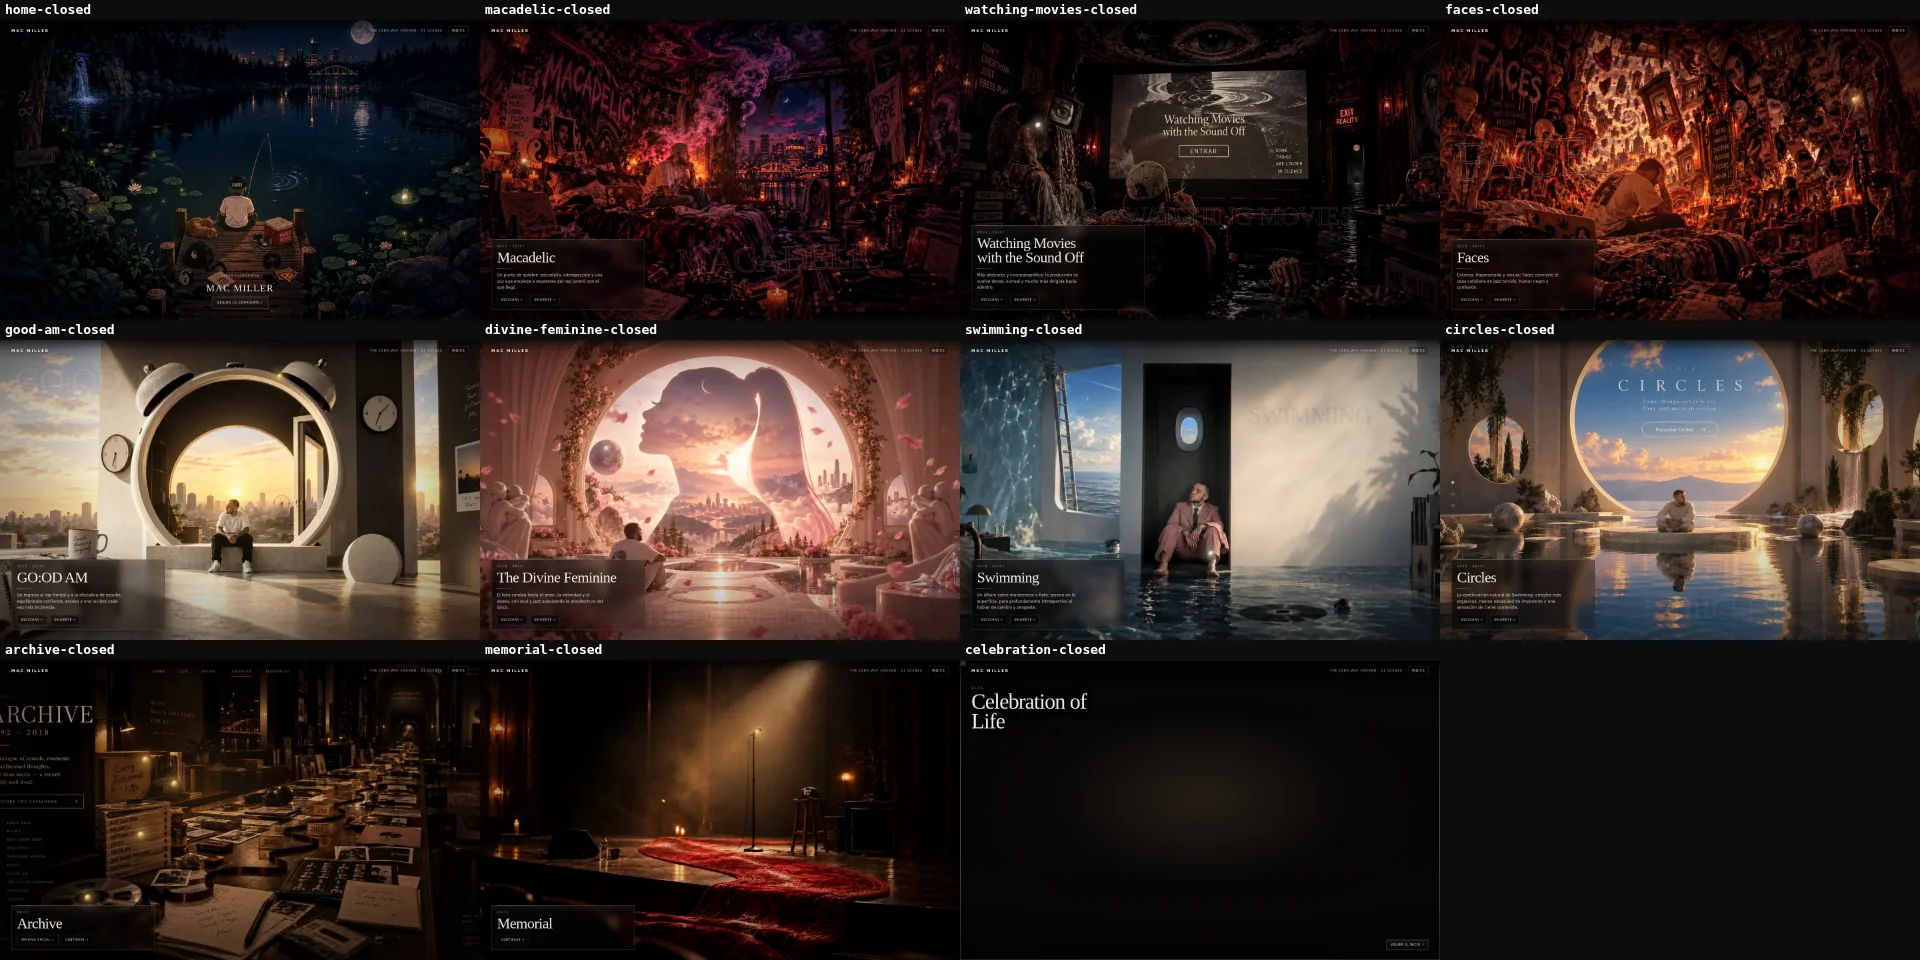
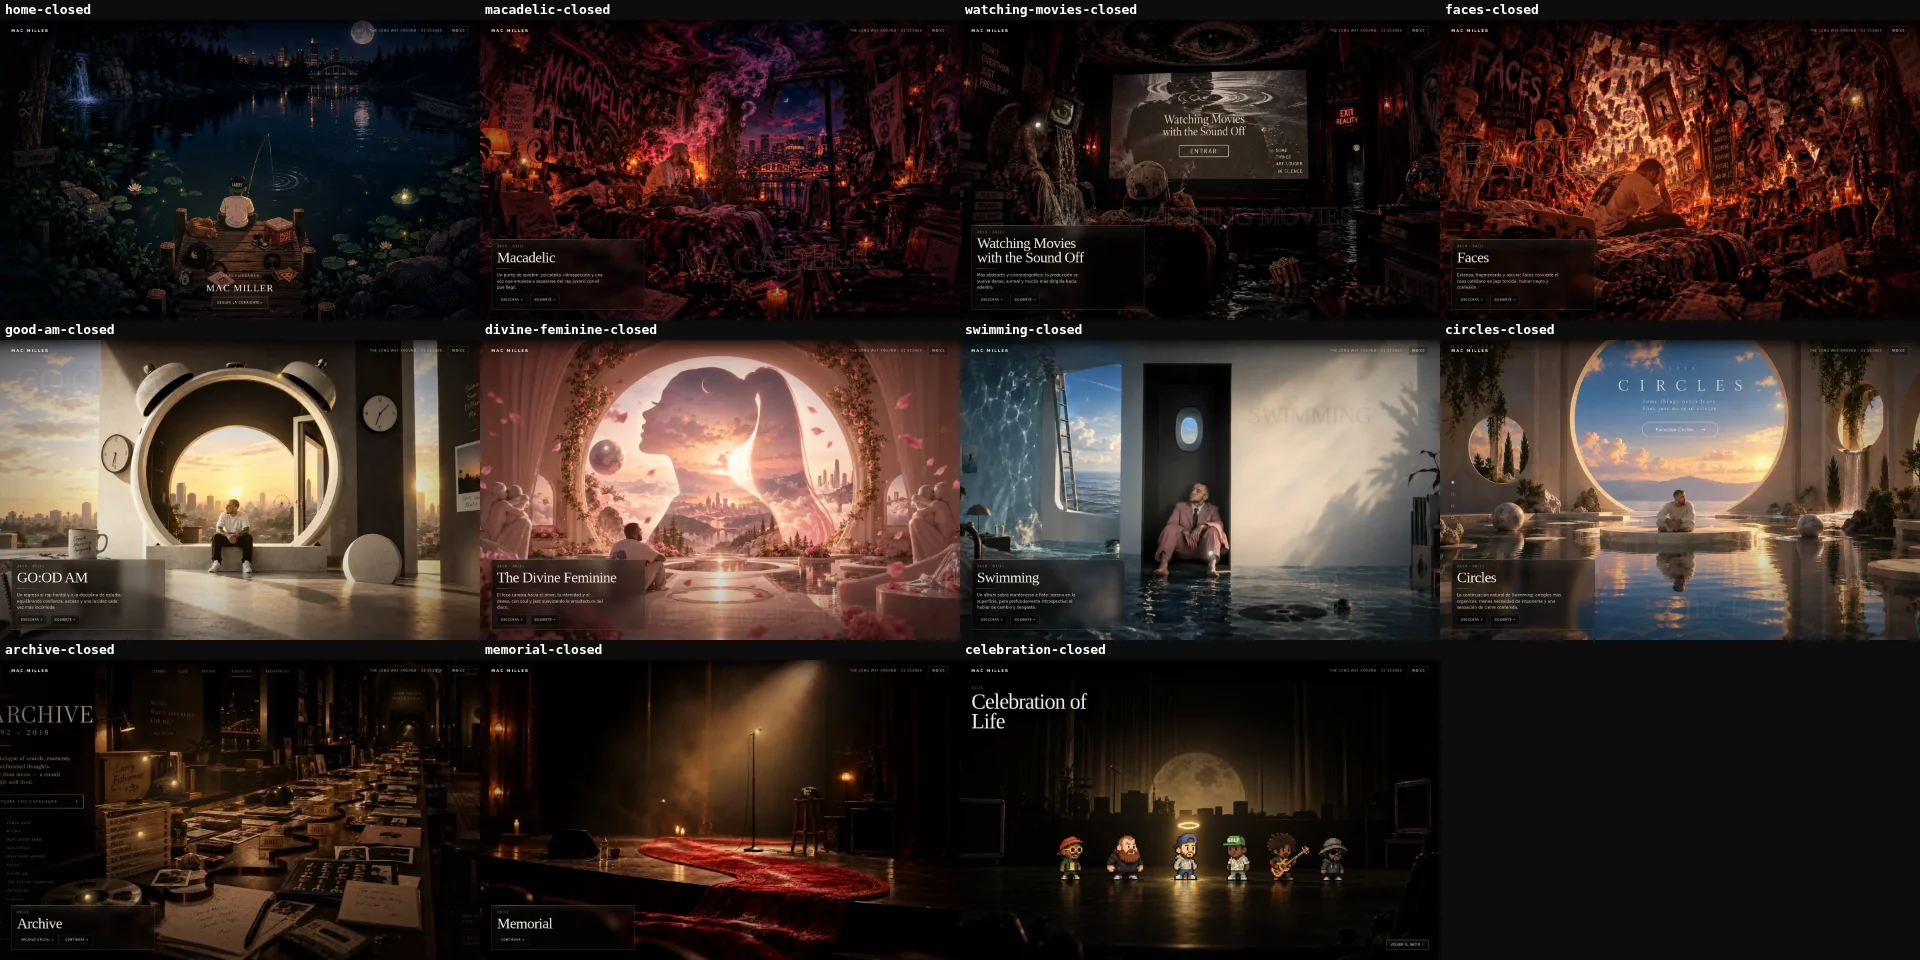
Restore the Celebration composite from the approved source master
assets/s10-celebration-composite.webp was truncated: its VP8 chunk header
declared 70436 bytes while the file held 12158. No browser could decode it, so
S10 rendered as an empty dark field with a broken-image marker - the only
image on the site that failed to decode. Every copy in git history was the
same truncated blob, so it could not be recovered from the repository.

It is re-encoded from assets/sources/homenaje_pixelado_bajo_la_luna.png, which
I verified before use: 1314126 bytes, 1672x941, RGB with no alpha channel, and
sha256 097988f051832dca82e7669e0c2380d68d1875d3ceefe89d26414218611d259f -
byte-for-byte the master recorded in the S10 scene contract. The composition
is untouched; nothing was regenerated, redesigned or rebuilt from sprites, and
the source carries no alpha so the runtime asset is opaque RGB.

Encoding choice

WebP quality 100, method 6, 168634 bytes. Lossless was measured at 938544
bytes - 4.6x the heaviest existing master - and no lossy setting avoids block
noise in the flat near-black curtain, because VP8 always quantises to blocks.
Rendered through Celebration's own grading at 1440x900 the two candidates
differ by a mean of 1.44/255 per pixel, max channel delta 39, with 0.5% of
pixels differing by 8 or more; the difference is only visible under a 6x
shadow boost. Quality 95 and below showed materially more blocking, so they
were rejected. Runtime image weight goes from 1263 KB to 1416 KB; Celebration
is the last scene and lazy-loaded.

Validation
[…]

Changed region(s): [[0.5312, 0.7812, 0.7188, 1.0]]

diff --git a/docs/visual-proof/phase2-global/README.md b/docs/visual-proof/phase2-global/README.md
@@ -14,12 +14,14 @@ real page, not mockups.
 | `contact-390x844-open.webp` | Every available open state, phone |
 | `contact-1440x900-closed-BEFORE-phase2.webp` | The same desktop sheet at the Phase 1 commit, for comparison |
 
-Celebration has no disclosure by design, so it appears in the closed sheets only.
+Celebration has no disclosure by design, so it appears in the closed sheets only. The two closed
+sheets were regenerated after the Celebration composite was restored; the open sheets contain no
+Celebration frame and are unchanged.
 
 ## Individual proofs
 
 `s01-macadelic-*`, `s08-archive-*` (closed plus two of the four object states),
-`s09-memorial-*`, `s10-celebration-*`, and `s08-archive-390-open.webp`.
+`s09-memorial-*`, `s08-archive-390-open.webp`, and `s10-celebration-{1440,390,1920}.webp`.
 
 ## Golden Faces regression gate
 
@@ -32,15 +34,30 @@ commit: the Faces patch lost its phone-width crop sync (`object-position: 55% 54
 shared block was rewritten, and the persistent-card hairline changed alpha. Both were restored to
 the Phase 1 values.
 
-## Known defect, not caused by this work
+## Celebration composite — restored
 
-`assets/s10-celebration-composite.webp` is **truncated**: its VP8 chunk header declares 70 436
-bytes while the file is 12 158. No browser can decode it, so Celebration renders as an empty dark
-field with a broken-image marker. It is the only image on the site that fails to decode (1 of 12).
-The only copy in the whole repository history is the same truncated blob, so there is nothing to
-restore from. The two `s10-celebration-*-BROKEN-ASSET.webp` files record that state. Celebration's
-CSS direction is complete and asset-independent; it will read correctly the moment an intact
-composite lands at the same path.
+`assets/s10-celebration-composite.webp` was previously truncated: its VP8 chunk header declared
+70 436 bytes while the file held 12 158, so no browser could decode it and Celebration rendered as
+an empty dark field with a broken-image marker. Every copy in repository history was the same
+truncated blob, so it could not be recovered from git.
+
+It has been re-encoded from the approved source master, now kept in the repository at
+`assets/sources/homenaje_pixelado_bajo_la_luna.png` (1 314 126 bytes, 1672x941, RGB, no alpha,
+`sha256 097988f0…259f` — matching `S10-celebration-of-life.yaml` exactly). The runtime asset is
+168 634 bytes of WebP at quality 100 / method 6, RIFF and VP8 chunk sizes consistent with the file
+length, 1672x941, decoding in both Pillow and Chromium.
+
+Lossless WebP was measured at 938 544 bytes — 4.4x the heaviest existing master — against 168 634
+at quality 100. Rendered through Celebration's own grading at 1440x900 the two differ by a mean of
+1.44/255 per pixel (max channel delta 39, 0.5% of pixels differing by 8 or more), visible only
+under a 6x shadow boost. Quality 100 was chosen on that evidence; the lossless file is a one-line
+change if a future reviewer prefers it.
+
+Verified in Chromium at 1440x900, 390x844 and 1920x1080: composite decodes, no broken-image
+marker, no failed requests, Mac central under his halo, all six figures complete and uncropped,
+floor reflections present, heading and return CTA inside the scene, no horizontal overflow, one
+composite image in the section and zero sprite elements. Mobile keeps the approved `object-fit:
+contain` so no collaborator is ever cropped.
 
 ## Verification performed
 

diff --git a/docs/FINAL_QA.md b/docs/FINAL_QA.md
@@ -50,6 +50,14 @@
 ## Celebration
 
 - [x] Runtime uses `assets/s10-celebration-composite.webp`.
+- [x] The runtime composite decodes in a real browser. The previously shipped file was truncated
+      (VP8 chunk declared 70 436 bytes, file held 12 158) and rendered nothing; it was re-encoded
+      from the approved source and verified in Chromium at 1440x900, 390x844 and 1920x1080.
+- [x] The approved source master is stored in the repository at
+      `assets/sources/homenaje_pixelado_bajo_la_luna.png`, 1672x941, sha256 `097988f0…259f`,
+      matching `docs/v6-preproduction/scenes/S10-celebration-of-life.yaml`.
+- [x] Moon, halo, floor reflections and all six figures are present and uncropped at every checked
+      width; mobile keeps `object-fit: contain` so no collaborator is cropped.
 - [x] The old six-sprite layout is deprecated and is not the visual runtime.
 - [x] The six represented collaborators remain documented in screen-reader-only HTML.
 - [x] No independent sprite box can crop a collaborator.
